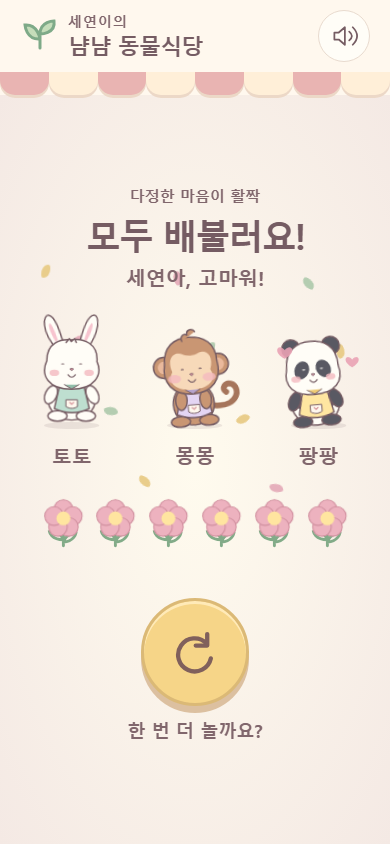
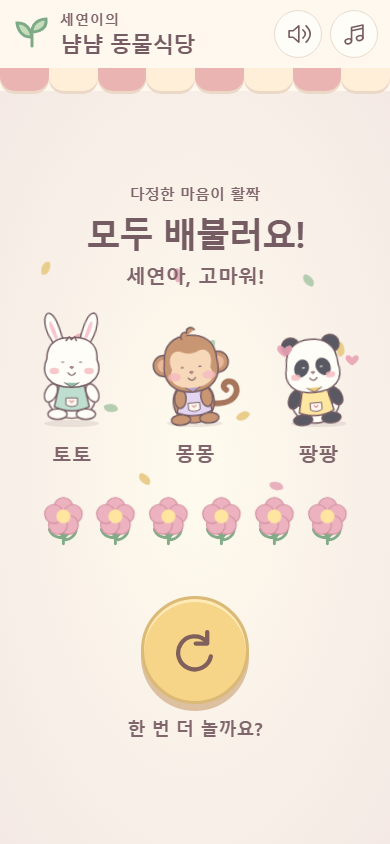
docs: record background music Pages verification [skip ci]

diff --git a/docs/QA_REPORT.md b/docs/QA_REPORT.md
@@ -8,8 +8,8 @@
 |---|---|---|
 | 의존성 설치 | PASS | `npm install --no-fund --no-audit`; lockfile 저장 |
 | 타입 검사·프로덕션 빌드 | PASS | `npm run build`; React/Vite, Service Worker 및 manifest 생성 |
-| Vitest | PASS — 11개 | 순서/매핑, 배치 불변식, 오답/힌트 초기화, 중복 진행 잠금, 6회 종료·재시작, 드래그 취소·드롭 경계, master/music 음소거 분리 저장, 저장/오디오 접근 실패 |
-| Playwright Chromium | PASS — 17개 | 아래 모바일·입력·오프라인·업데이트·오디오 시나리오; 실제 Chromium 156, 터치 에뮬레이션 |
+| Vitest | PASS — 11개 | 순서/매핑, 배치 불변식, 오답/힌트 초기화, 중복 진행 잠금, 6회 종료·재시작, 드래그 취소·드롭 경계, 전체/음악 개별 음소거 분리 저장, 저장/오디오 접근 실패 |
+| Playwright Chromium | PASS — 17개 | 아래 모바일·입력·오프라인·업데이트·음악 시나리오; 실제 Chromium 156, 터치 에뮬레이션 |
 | 콘솔·실행 오류 | PASS | 게임 E2E의 console error/pageerror 수집 결과 빈 배열, 업데이트 E2E의 pageerror 빈 배열 |
 | 스크린샷 | PASS | 최종 실행에서 38개 PNG 생성; 등장 완료 후 기본 화면 캡처, 반응 화면은 실제 애니메이션 프레임 캡처. 이전 `desktop-drag.png`는 과거 증거로 보존하며 현재 수에 포함하지 않음 |
 | 독립 리뷰 | PASS | 2개 결함 수정 후 재리뷰; 지연된 SW 활성화 독립 재현에서도 놀이 유지·종료 후 갱신 확인 |
@@ -77,12 +77,12 @@
 
 - 저장소: [SeungMin-Park-psm1757/seyeon-animal-restaurant](https://github.com/SeungMin-Park-psm1757/seyeon-animal-restaurant), 공개, 기본 브랜치 `main`.
 - 게임: [세연이의 냠냠 동물식당](https://seungmin-park-psm1757.github.io/seyeon-animal-restaurant/), HTTPS.
-- 배포 버전: `dfd339a996e02d2d162d9cdb0aad75fc65211f88`. 공개 `build-info.json`과 일치했다. 이 문서·배포 검증 스크립트·증거 추가 커밋은 게임 코드를 변경하지 않는다.
-- [GitHub Actions 실행 37901709219](https://github.com/SeungMin-Park-psm1757/seyeon-animal-restaurant/actions/runs/37901709219): Linux에서도 단위 10개, E2E 16개 통과 후 Pages 배포 성공.
-- 2026-10-09 17:01 KST 공개 주소에서 Chromium 390×844: HTTP 200, 상단 제목 22px, 온라인 6회·재시작·오프라인 reload 후 6회·합동 축하 통과. Service Worker scope는 게임의 하위 경로와 일치, 모바일 console error/pageerror 없음. 놀이 캡처는 캐릭터 등장 애니메이션의 불투명도 1을 기다린 뒤 저장했다.
+- 배포 버전: `ae2333441822b3fd9b18dc412ba9c59b69b98206`. 공개 `build-info.json`과 일치했다. 개발 브랜치와 `main`에 같은 커밋을 푸시했다.
+- [GitHub Actions 음악 버전 실행](https://github.com/SeungMin-Park-psm1757/seyeon-animal-restaurant/actions/runs/37904418783)과 [최종 저장소 상태 검증 실행](https://github.com/SeungMin-Park-psm1757/seyeon-animal-restaurant/actions/runs/37904468580): 두 번 모두 단위 11개와 E2E 17개를 통과하고 Pages 배포 성공.
+- 2026-10-09 17:30 KST 공개 주소에서 Chromium 390×844: HTTP 200, 상단 제목 22px, BGM 재생·음악만 음소거·음소거 복원, 온라인 6회·재시작·오프라인 reload 후 6회와 BGM 재생 통과. Service Worker scope가 게임 하위 경로와 일치하고 console error/pageerror는 빈 배열이었다. 별도 1280×900 PC에서도 시작했다.
 - 사용자 제공 `Kickoff Bounce.mp3` (2분50초, 2.79 MB)는 PWA 프리캐시 상한 4 MiB 안에 포함한다. 앱 본체와 함께 최초 온라인 방문 때 저장되면 이후 오프라인 재생이 가능하다.
 - 공개 주소의 1280×900 PC에서 회전 안내 없이 시작 통과. Codex 내장 브라우저에서도 공개 시작 화면과 오프라인 준비 안내를 확인했다.
 - 근거: [`qa/live-result.json`](../qa/live-result.json), [모바일 놀이](../qa/screenshots/live-390-play.png), [오프라인 완료](../qa/screenshots/live-390-offline-finished.png), [PC 놀이](../qa/screenshots/live-desktop-play.png).
-- 재현: `node qa/verify-live.mjs https://seungmin-park-psm1757.github.io/seyeon-animal-restaurant/ dfd339a996e02d2d162d9cdb0aad75fc65211f88`.
+- 재현: `node qa/verify-live.mjs https://seungmin-park-psm1757.github.io/seyeon-animal-restaurant/ ae2333441822b3fd9b18dc412ba9c59b69b98206`.
 
 재현: `npm run check`. 수동 확인: `npm run build` → `npm run preview` → `http://127.0.0.1:4173` → 시작 → 말풍선 음식 탭/드래그 → 꽃 6송이 → 다시 놀기.
